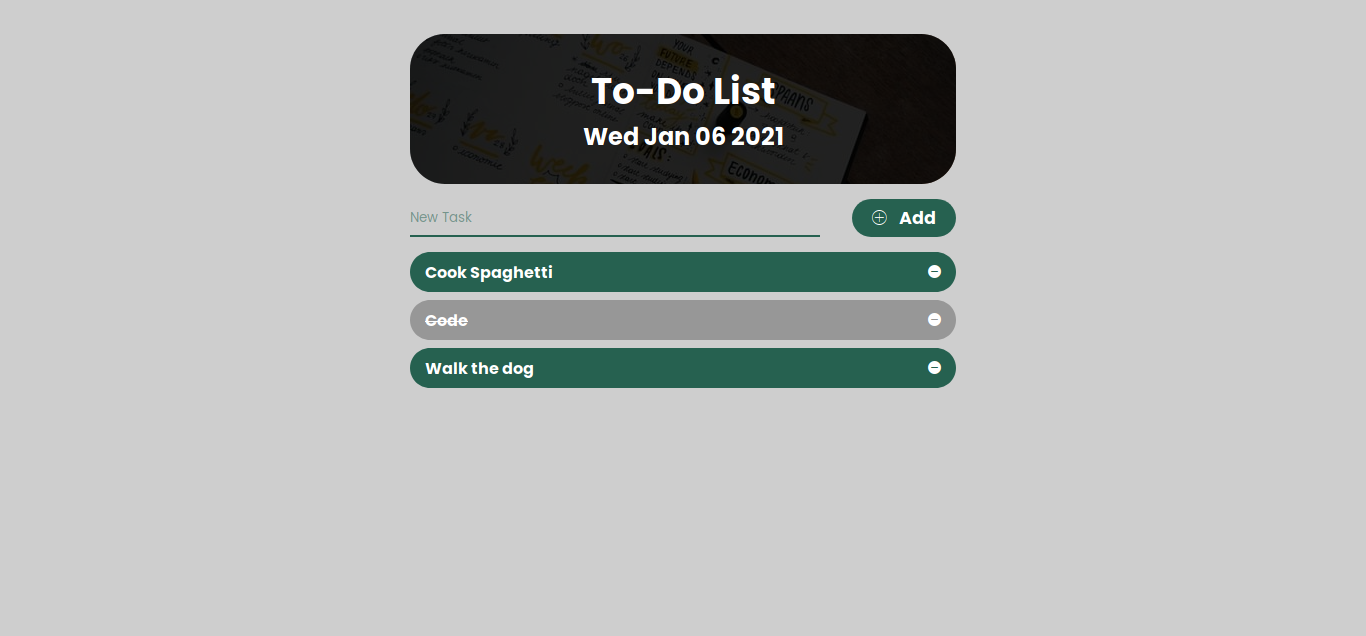
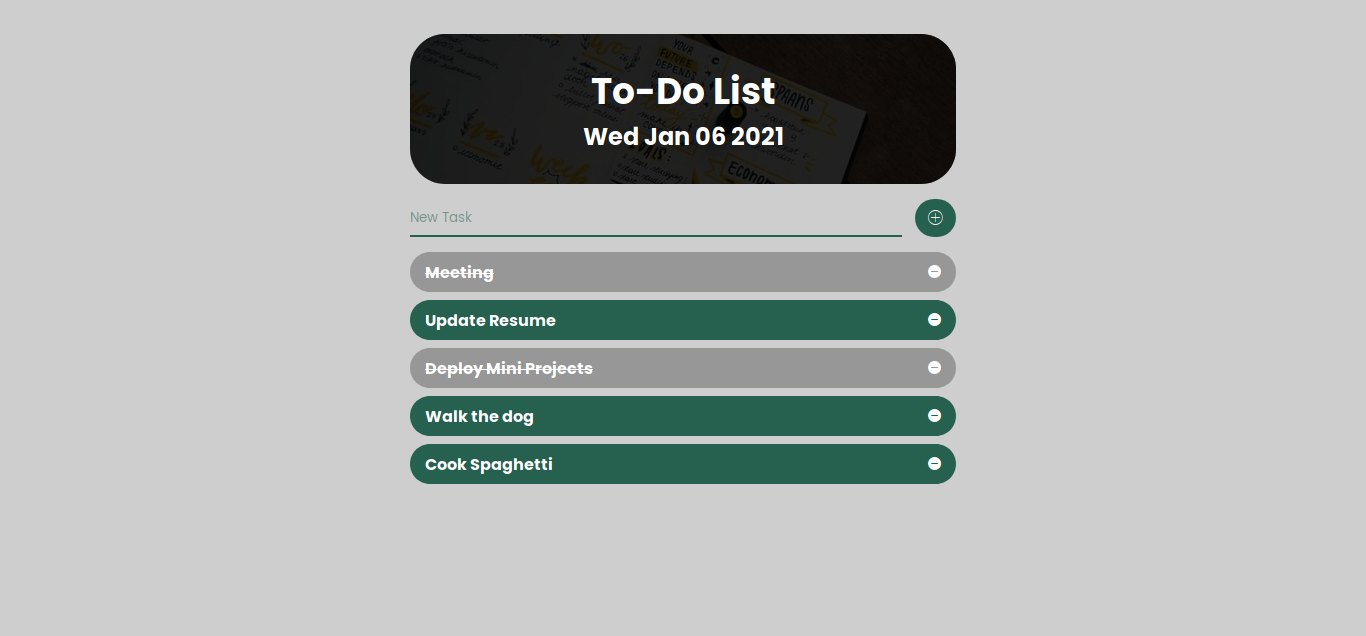
update styles

Changed region(s): [[0.2767, 0.2987, 0.7072, 0.7767]]

diff --git a/mini_todolist/index.html b/mini_todolist/index.html
@@ -14,10 +14,9 @@
     <main>
         <div id="top"></div>
         <div id="inputs">
-            <input id="input" type="text" name="name" placeholder="New Task" />
+            <input id="input" type="text" name="name" placeholder="New Task" autocomplete="off" />
             <button id="submit">
                 <i class="ion-ios-plus-outline"></i>
-                &nbsp; Add
             </button>
         </div>
         <ul id="tasklist"></ul>

diff --git a/mini_todolist/assets/css/main.css b/mini_todolist/assets/css/main.css
@@ -82,7 +82,7 @@ div#inputs {
 }
 
 input#input {
-    width: 75%;
+    width: 90%;
     background-color: transparent;
     padding: var(--spacing-sm) 0px;
     color: var(--color-accent1);
@@ -97,7 +97,7 @@ button#submit {
 }
 
 button#submit {
-    width: 19%;
+    width: 7.5%;
     font-size: 1.1rem;
     font-weight: 700;
     color: var(--color-accent3);
